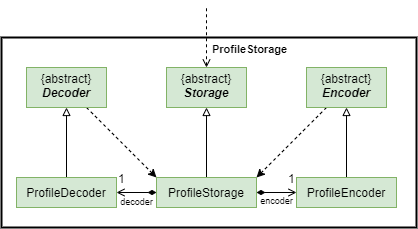
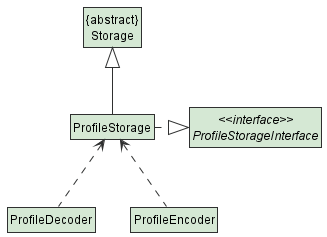
Update developer guide for design of Profile

diff --git a/docs/DeveloperGuide.md b/docs/DeveloperGuide.md
@@ -166,35 +166,40 @@ they are able to parse user inputs. They also make use of utility methods stored
 all the parameters relevant to the command. After parsing the input, `XYZCommandParser` returns `XYZCommand` to `ParserManager`,
 which then returns the same `XYZCommand` to `Main`.
 
-The sequence diagram below models the interactions between the different classes within the `Logic` component.
-This particular case illustrates how a user input `add f/potato c/20` is parsed and process to execute the appropriate actions.
-
-<p align="center" width="100%">
-  <img width="100%" src="images/LogicSequenceDiagram.png" alt="Logic Sequence Diagram"/>
-</p>
-
 ### Storage component
 
 <p align="center" width="100%">
-  <img width="60%" src="images/StorageClassDiagram.png" alt="Storage Class Diagram"/>
+  <img width="60%" src="images/StorageManagerClassDiagram.png" alt="Storage Class Diagram"/>
 </p>
-The `StorageManager` component loads and saves:
-- your profile - including name, height, weight, gender, age, calorie goal and activity factor
-- list of exercises done - including date performed
-- list of food consumed - including date and time of consumption
-- scheduled exercises - recurring exercises that are scheduled in the future
-- food and exercise banks - names and calories of relevant item
 
-Each storage is able to decode/encode details from the bot and is designed this way (Using ProfileStorage as an example)
+`StorageManager` initializes all `Storage` subclasses with their respective paths. 
+Acting as a medium, it then interacts with each of the respective `Storage` subclasses. 
+This design declutters the code in Main and provides a platform to ensure each of the subclasses were utilized. 
+It is also implemented with all of the `StorageInterface` interfaces to enforce methods of loading and saving to be fully implemented into the code.
+
+The `StorageManager` component loads and saves:
+
+- your profile: name, height, weight, gender, age, calorie goal and activity factor
+- list of exercises done: including date performed
+- list of food consumed: including date and time of consumption
+- upcoming exercises: recurring exercises that are scheduled in the future
+- food and exercise banks: names and calories of relevant item
+
+Each `Storage` subclass is able to decode/encode details from the bot and is designed this way (Using ProfileStorage as an example)
 
 <p align="center" width="100%">
   <img width="60%" src="images/ProfileStorageClassDiagram.png" alt="Profile Storage"/>
 </p>
 
+The `ProfileStorage` inherits an abstract class of `Storage` which contains protected attributes of `fileName` and `filePath`.
+After inheritance, it then implements loading and saving methods interfaced by `ProfileStorageInterface` to ensure reading and writing operations.
+
 where:
 - ProfileEncoder encodes the list to the profile.txt file.
 - ProfileDecoder decodes the list from profile.txt file and inputs into the bot.
-- ProfileStorage initializes the encoder and decoder and utilizes them for reading or writing operations.
+- ProfileStorage utilizes the static methods in encoder and decoder for loading or saving operations.
+
+This way ensures that each class has a _single responsibility_ with little coupling between each other.
 
 ## Implementation
 
